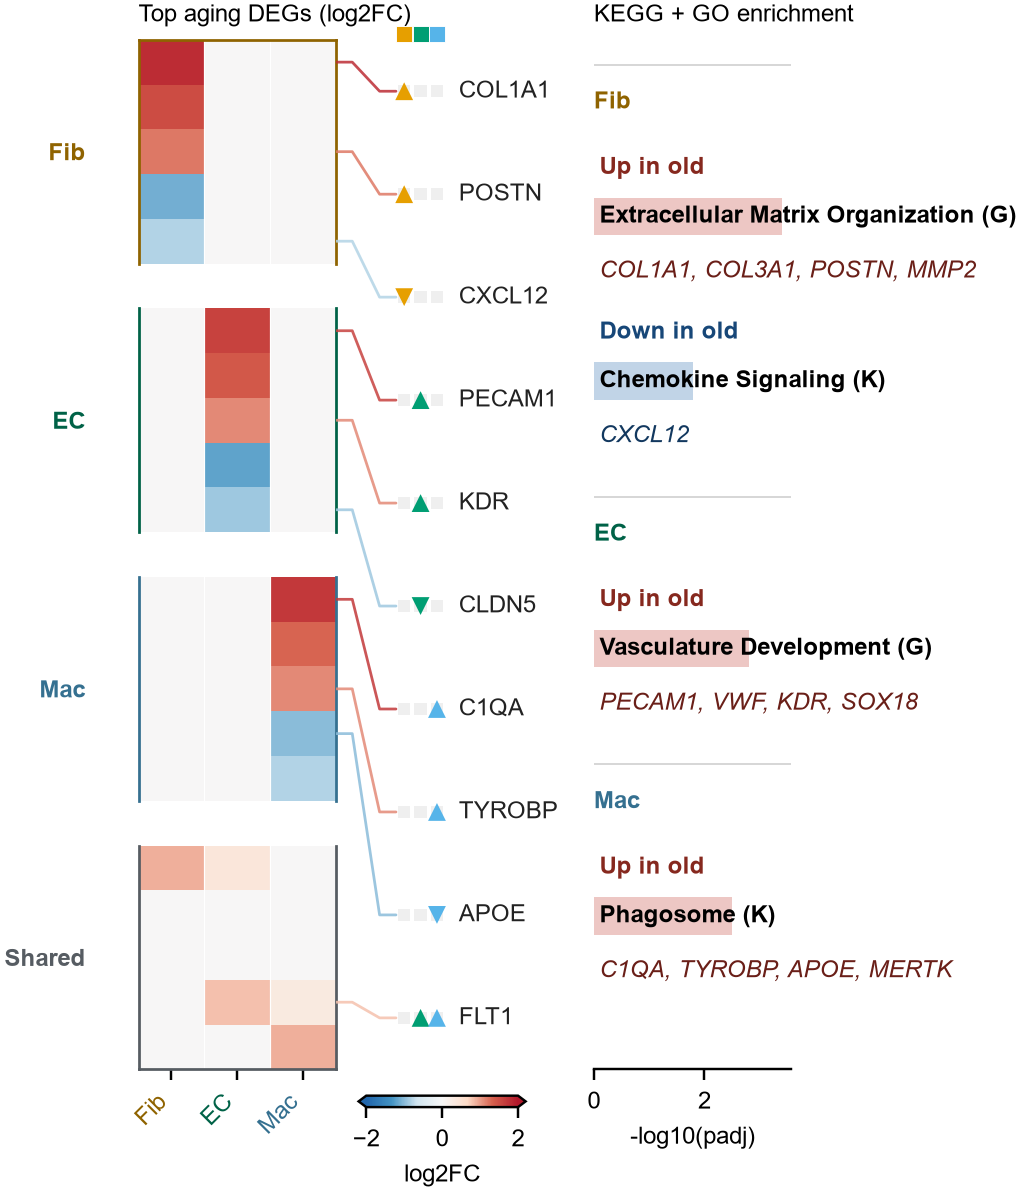
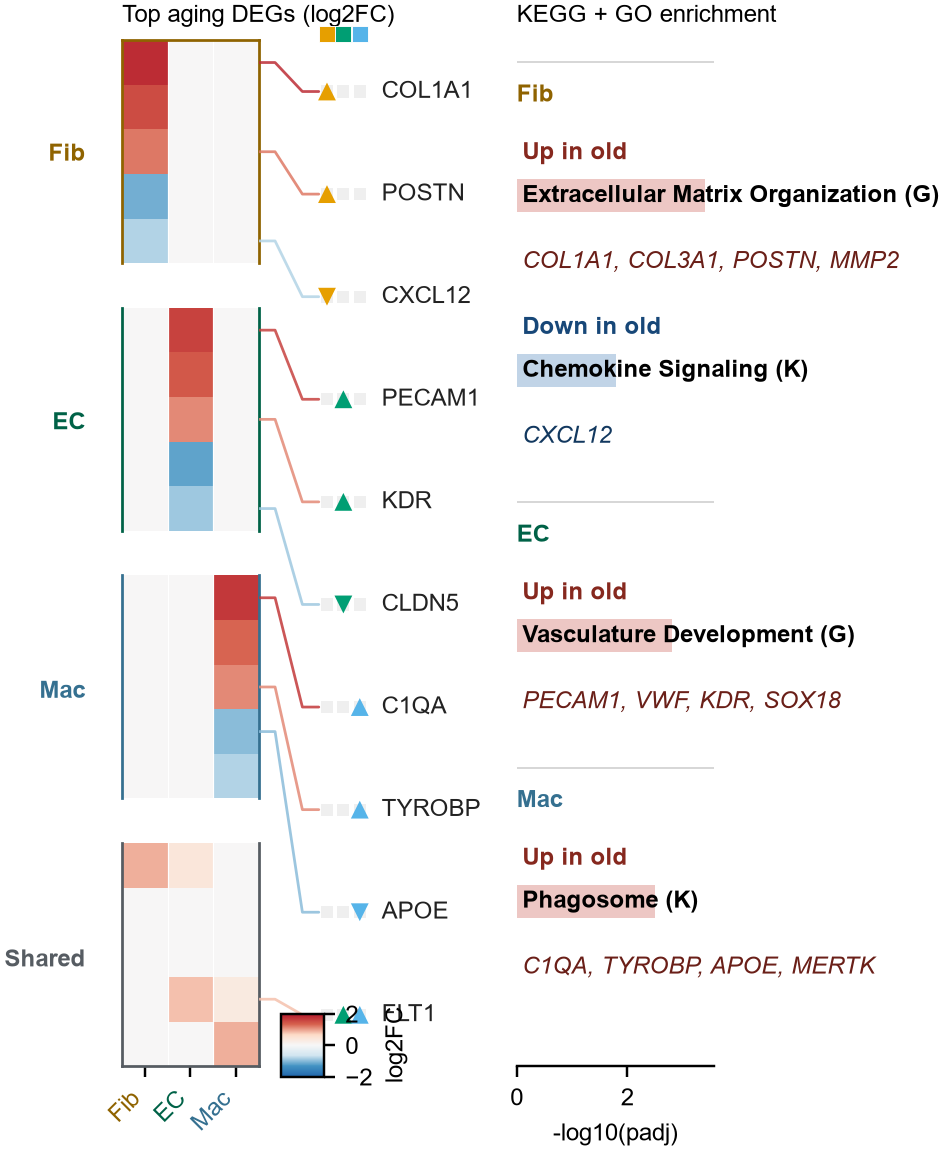
oydeg_enrichment: 视网膜口径自适应(xtick旋转/左边距/块标签 fig.text/竖排色条)

diff --git a/drawing_yh/heatmap/oydeg_enrichment.py b/drawing_yh/heatmap/oydeg_enrichment.py
@@ -192,7 +192,7 @@ def _build_enrichment_layout(
     gene_formatter: Callable[[str], str],
     gene_wrap: int,
 ):
-    head_h, sub_h, term_h, gene_h, term_gap, gap = 1.05, 0.78, 0.88, 0.70, 0.28, 0.60
+    head_h, sub_h, term_h, gene_h, term_gap, gap = 1.05, 0.78, 1.20, 0.70, 0.50, 0.60
     layout, slot = [], 0.0
     for block in right_blocks:
         header_y = slot
@@ -263,7 +263,6 @@ def _build_enrichment_columns(right_blocks, ncols, **kw):
 def _lay_terms_from(terms_raw, start_y, *, max_genes_per_term, gene_formatter,
                     gene_wrap, term_wrap):
     """从 start_y 往下排一组 term(可换行的 term 标签 + 基因行),返回 (items, end_y)。"""
-    term_h, gene_h, term_gap, lbl_line_h = 0.88, 0.70, 0.28, 0.66
     slot = start_y
     items = []
     for t in (_term_dict(x) for x in terms_raw):
@@ -341,7 +340,7 @@ def _render_updown(ax_up, ax_down, layout, total_slots, max_nlp, *, fs, no_terms
                 ax.barh(it["term_y"], nlp, height=0.60, color=side["dcolor"],
                         alpha=0.28, edgecolor="none")
                 for li, line in enumerate(it["lbl_lines"]):
-                    ax.text(xt, it["term_y"] + li * 0.66, line, va="center", ha="left",
+                    ax.text(xt, it["term_y"] + li * lbl_line_h, line, va="center", ha="left",
                             fontsize=fs["term"], color="black", fontweight="bold", clip_on=False)
                 for gy, line in it["glines"]:
                     ax.text(xt, gy, line, va="center", ha="left", fontsize=fs["gene"],
@@ -419,6 +418,8 @@ def plot_oydeg_heatmap_enrichment(
     enrich_updown_cols: bool = False,
     updown_gap: float = 0.012,
     updown_term_wrap: int = 30,
+    xtick_rotation: float = 45,
+    block_label_wrap: int = 14,
 ):
     """Draw an OY-DEG heatmap with labeled genes and enrichment blocks.
 
@@ -489,7 +490,15 @@ def plot_oydeg_heatmap_enrichment(
         figsize = (fig_w, fig_h)
     fig = plt.figure(figsize=figsize)
 
-    ax_heat = fig.add_axes([0.06, 0.055, 0.13, 0.90])
+    # 左边距随最长块标签行宽自适应(标签在热图左侧 ha="right" 且带 leader 偏移 ~0.27*ax_w)
+    _max_blk_chars = max((len(_wrap_label(b.get("label", ""), block_label_wrap)
+                              .split("\n")[0]) for b in heat_blocks), default=6)
+    _text_frac = _max_blk_chars * (fs["block"] * 0.62 / 72) / figsize[0]
+    left_m = 0.06
+    for _ in range(3):   # label 偏移∝ax_w, 迭代收敛
+        _ax_w = min(0.13, 0.19 - left_m)
+        left_m = max(0.06, 0.269 * _ax_w + _text_frac + 0.015)
+    ax_heat = fig.add_axes([left_m, 0.055, 0.19 - left_m, 0.90])
     ax_labels = fig.add_axes([0.19, 0.055, 0.18, 0.90])
     dot_x0 = 0.25
     name_x = dot_x0 + ncol * dot_dx + 0.02
@@ -513,13 +522,26 @@ def plot_oydeg_heatmap_enrichment(
             for i in range(enrich_ncols)
         ]
     ax_enrich = ax_enrich_list[0]
-    cax = fig.add_axes([0.205, 0.022, 0.11, 0.010])
+    # 色条竖排(标签在右侧): 短高 0.08in、宽 0.028 画布分数, 底部抬高避开 xtick
+    # 底部边距自适应: 90° 竖排 xtick 最长文字会向下伸出, 固定 y 布局会被压出画布
+    _max_xt_chars = max((len(_display(c, display_labels)) for c in cols), default=4)
+    _bot_frac = ((fs["xtick"] * 0.62 / 72) * (_max_xt_chars if xtick_rotation in (90,) else 1)
+                 / figsize[1]) + 0.045
+    _bot_frac = max(0.055, min(_bot_frac, 0.16))
+    _h = 1.0 - _bot_frac - 0.045
+    if _bot_frac > 0.055:
+        for _ax in [ax_heat, ax_labels, *ax_enrich_list]:
+            _p = _ax.get_position()
+            _ax.set_position([_p.x0, _bot_frac, _p.width, _h])
+    cax = fig.add_axes([0.205, min(0.075, _bot_frac * 0.5 + 0.02), 0.028, 0.055])
 
     ax_heat.imshow(mat_disp, aspect="auto", cmap=cmap_obj, norm=norm,
                    extent=[0, ncol, n_disp, 0], interpolation="nearest")
     ax_heat.set_xticks([i + 0.5 for i in range(ncol)])
-    ax_heat.set_xticklabels([_display(c, display_labels) for c in cols], rotation=45,
-                            ha="right", fontsize=fs["xtick"])
+    ax_heat.set_xticklabels([_display(c, display_labels) for c in cols],
+                            rotation=xtick_rotation,
+                            ha="right" if xtick_rotation in (0, 45) else "center",
+                            fontsize=fs["xtick"])
     for tick, col in zip(ax_heat.get_xticklabels(), cols):
         tick.set_color(darken(column_colors.get(col, "#000000"), 0.62))
     ax_heat.set_yticks([])
@@ -538,7 +560,7 @@ def plot_oydeg_heatmap_enrichment(
         spine.set_visible(False)
 
     centers = [(block["s_disp"] + block["e_disp"]) / 2 for block in heat_blocks]
-    labels = [_wrap_label(block.get("label", "")) for block in heat_blocks]
+    labels = [_wrap_label(block.get("label", ""), block_label_wrap) for block in heat_blocks]
     line_row = max((fs["block"] * 1.5 / 72) / (0.90 * figsize[1]) * n_disp, 1e-6)
     adjusted = list(centers)
     for i in range(1, len(adjusted)):
@@ -557,8 +579,11 @@ def plot_oydeg_heatmap_enrichment(
             ax_heat.plot([0, stub_x, diag_x], [center, center, y], color=bc, lw=0.6,
                          alpha=0.85, clip_on=False, zorder=4, solid_capstyle="round",
                          solid_joinstyle="round")
-        ax_heat.text(label_x, y, label, va="center", ha="right", fontsize=fs["block"],
-                     fontweight="bold", color=bc, clip_on=False, linespacing=0.9)
+        # 挂 fig.text: 块标签物理位置在 ax_heat 坐标区外(左侧), 挂 ax.texts 会被 stray 检查误报
+        _fx = left_m + label_x / ncol * (0.19 - left_m)
+        _fy = 0.055 + (1 - y / n_disp) * 0.90
+        fig.text(_fx, _fy, label, va="center", ha="right", fontsize=fs["block"],
+                 fontweight="bold", color=bc, linespacing=0.9)
     ax_heat.set_xlim(0, ncol)
     ax_heat.set_ylim(n_disp, 0)
     if heatmap_title:
@@ -566,13 +591,18 @@ def plot_oydeg_heatmap_enrichment(
 
     sm = plt.cm.ScalarMappable(norm=norm, cmap=cmap_obj)
     sm.set_array([])
-    cb = fig.colorbar(sm, cax=cax, orientation="horizontal", extend="both")
+    # 标签放色条右侧: 底部空间随图高变化, 短图时 xlabel 会垂出画布(门禁 outside)
+    cax_h = 0.010 * figsize[1] / 8.0          # 保持 ~0.08in 物理高
+    cb = fig.colorbar(sm, cax=cax, orientation="vertical", aspect=8)
     cb.set_label(colorbar_label, fontsize=fs["cbar"])
     cb.ax.tick_params(labelsize=fs["ctick"])
 
     ax_labels.set_xlim(0, 1)
     ax_labels.set_ylim(n_disp, 0)
     ax_labels.axis("off")
+    # axis("off") 后残留默认数字刻度仍会被 layout_audit 收集(幻影重叠), 清掉
+    ax_labels.set_xticks([])
+    ax_labels.set_yticks([])
     nl = max(len(label_genes), 1)
     header_marker_size, grid_marker_size, tri_marker_size, leader_lw = 26, 16, 34, 0.9
     for j, col in enumerate(cols):
